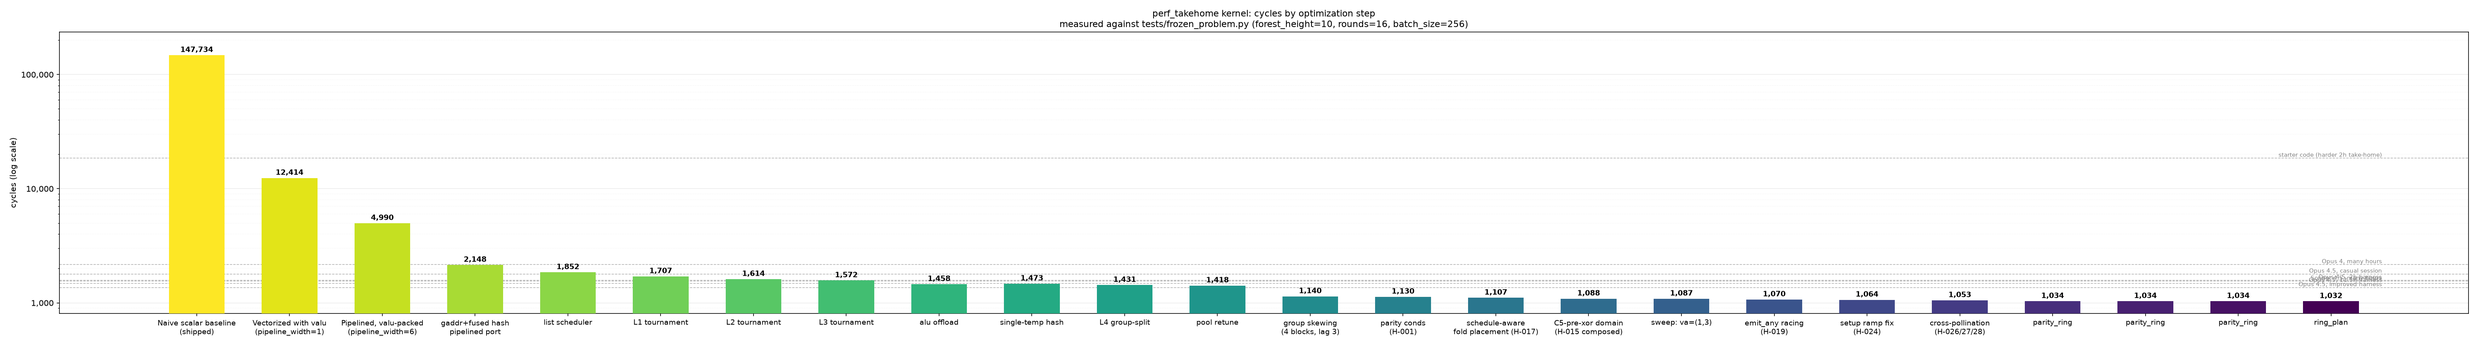
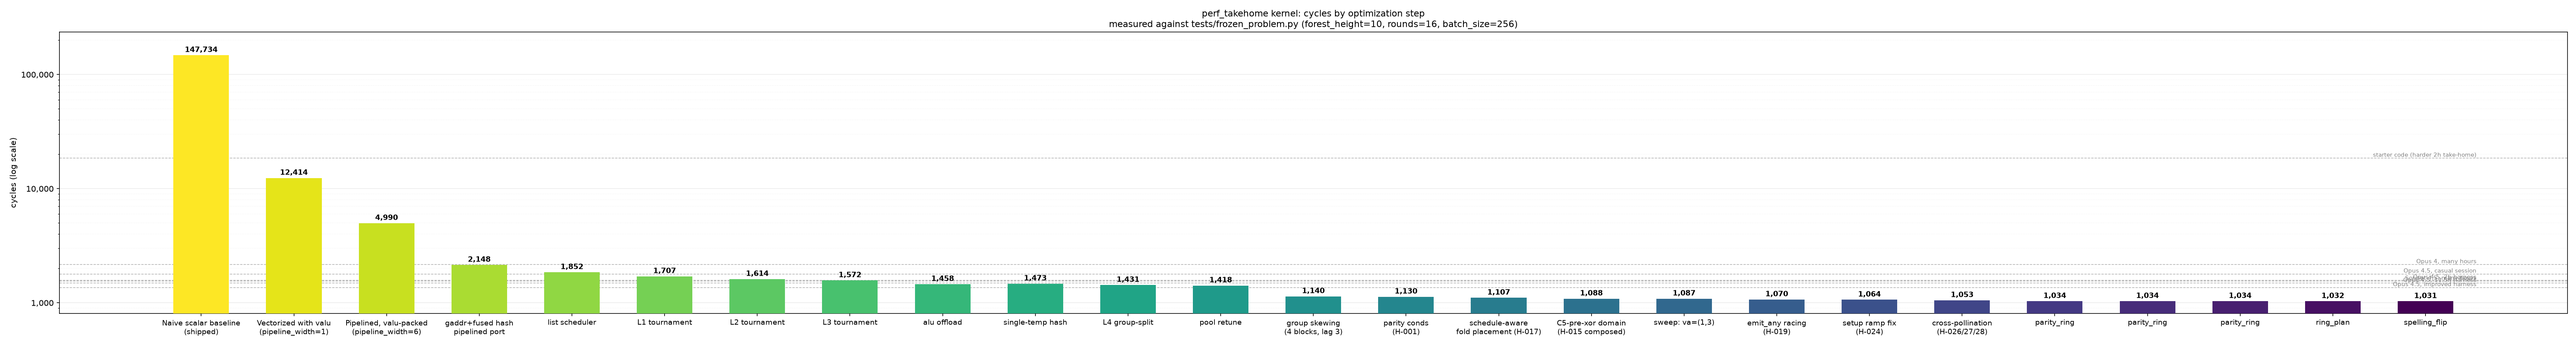
F-9: mainline flipped to 1031; iter-15 log updated
Claude-Session: 5cfbd141-00dc-4755-aaa3-3deea70ab9f0

diff --git a/research/RESEARCH.md b/research/RESEARCH.md
@@ -7,7 +7,7 @@
 
 | cycles | commit | config |
 |---|---|---|
-| 1032 | F-6 port | H-048 4-ring word-borrow plan + l4_gmin=(8,30) on the H-045 parity_ring stack |
+| 1031 | F-9 port | H-042 spelling flip ((13,29) L2 fold off flow) on the H-048 ring stack |
 
 ## Floors (recalibrated 2026-07-27 at 1038, see tools/diagnose_kernel.py + tools/export_dashboard.py)
 
@@ -86,6 +86,7 @@ Global: 6 dry iterations -> one cross-pollination iteration. Status report to us
 - iter 13 | H-040 CLOSED ANSWERED: 892 = no-indices board + different organization; same-rules frontier 940; the 1,015 floor is a fixed-gather-count artifact. Loop redirected: H-041 select-tree gather conversion + per-cycle engine-mix balance (corsix: >280 gathers convertible, valu:load:flow 7.5:2:1), H-042 beam-search bundle packing (wallace: beats greedy). H-038/H-039 still running | best 1038
 - iter 13 | H-041 REJECTED -> G-23 (we ALREADY run the frontier's 7.5:2:1 balance — steady window co-saturated, valu binder floor 1020, friction only 18; L4 at equilibrium on count AND composition axes; L5 dead 3 ways; conversion activates only below ~950 after ~400 valu/~600 alu removal). MODE CHANGE (user directive): ALGO-FIRST under idealized machine (infinite scratch + perfect allocation) — fitting/allocation PARKED (H-042 parked); new algo strain: H-043 (frontier writeup mechanism extraction), H-044 (ideal-machine cost model + serving-strategy solve) | best 1038
 - iter 14 | H-045 PARTIAL ACCEPT: parity_ring cond retention (dead-window cross-block register borrowing, 480w at zero net alloc) + gmin slide -> strain frontier 1034 (-4), first win since restart; superadditive slices confirm the coupled prize; blockers: 384 more ring words for full retention (mid-schedule fully live), flow leg needs joint scheduling (H-042 re-scope) not spelling. F-1 mainline port spawned | best 1038 (frontier 1034)
+- iter 15 | H-042 PARTIAL ACCEPT (frontier 1031 = plan-space optimum; selection-under-fixed-order EXHAUSTED; full 384-word retention now cost-neutral; LP's valu->flow direction never pays — winning flip is the reverse; residual ~55-cyc prize is EMISSION-ORDER-shaped -> F-11 beam or H-047). F-9 MAINLINE FLIPPED -> 1031 (site 354 mapped 1:1, zero drift, flag-free (13,29) pin). Restart tally: 1038 -> 1031 in one day, 6 accepts, 6 permanent closures
 - iter 15 | H-048 PARTIAL ACCEPT (frontier 1032: 4 plan rings, relief-funded gmin slide; 384-word supply PROVEN, conversion re-routed to H-042/F-8; trace-liveness soundness caveat). F-6 MAINLINE FLIPPED -> 1032 (named-vector derivation, zero drift). H-038 CLOSED NEGATIVE -> G-24 (1.586T cmpsel candidates; hash closed by 4th tool class, FINAL). H-042 unparked re-scoped (flow leg + ring-hazard placement), running | best 1032
 - iter 14 | F-1 MAINLINE FLIPPED -> 1034 (port exact; also root-caused a real dev/perf drift: perf keyed temp pools by g%size vs dev's global emission-index rotation — WAW serialization difference, now baked with comment). Iter 14 tally: 2 answers (H-043/H-044), 1 accept chain (H-045+F-1, -4), milestone recorded | best 1034
 - iter 14 | H-044 CLOSED ANSWERED: ideal-floor LP (tools/ideal_floor.py, validated) — best serving mix under infinite scratch = 931.6 (serve L1-L3 + 31/64 L4, prime L4/L5/L6, 918 flow selects, conds retained from parity vectors); 940 NEEDS ZERO NEW ALGEBRA, but is UNREACHABLE with the as-built mix by any compute removal (load floor 951 binds). Gap: 1038 -24-> 1014 -63-> 951 -20-> 932. Marginal rate at optimum ~97 lane-ops/cyc; loads live again (G-22 verdict was mix-relative). H-045 re-scoped to the full flow-saturation build and spawned | best 1038
